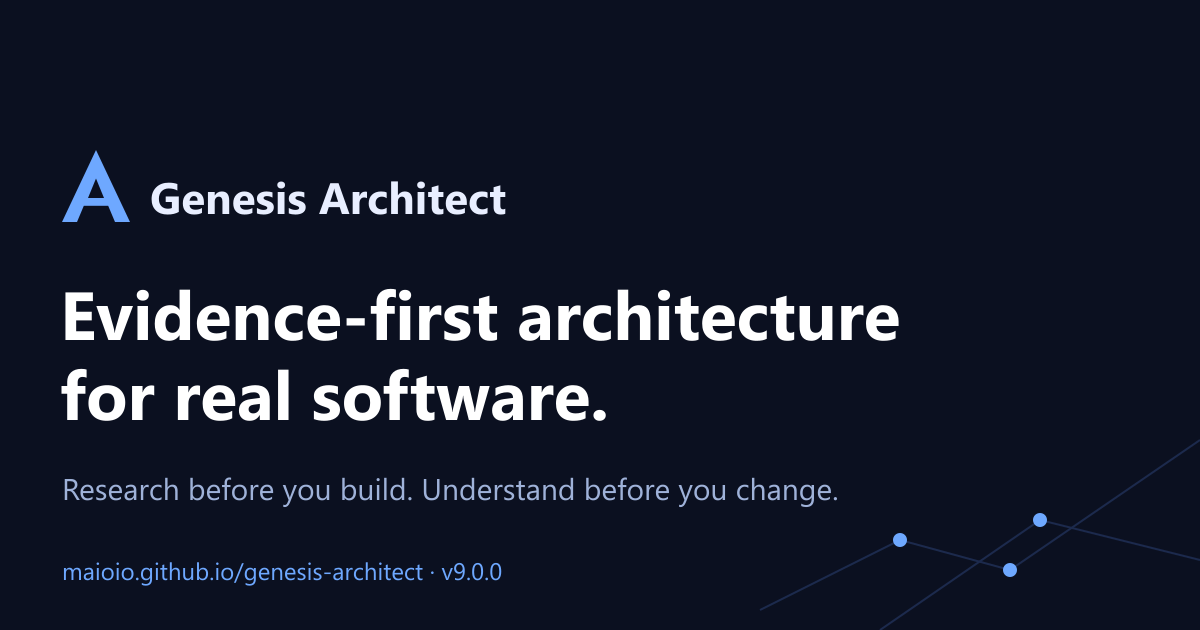
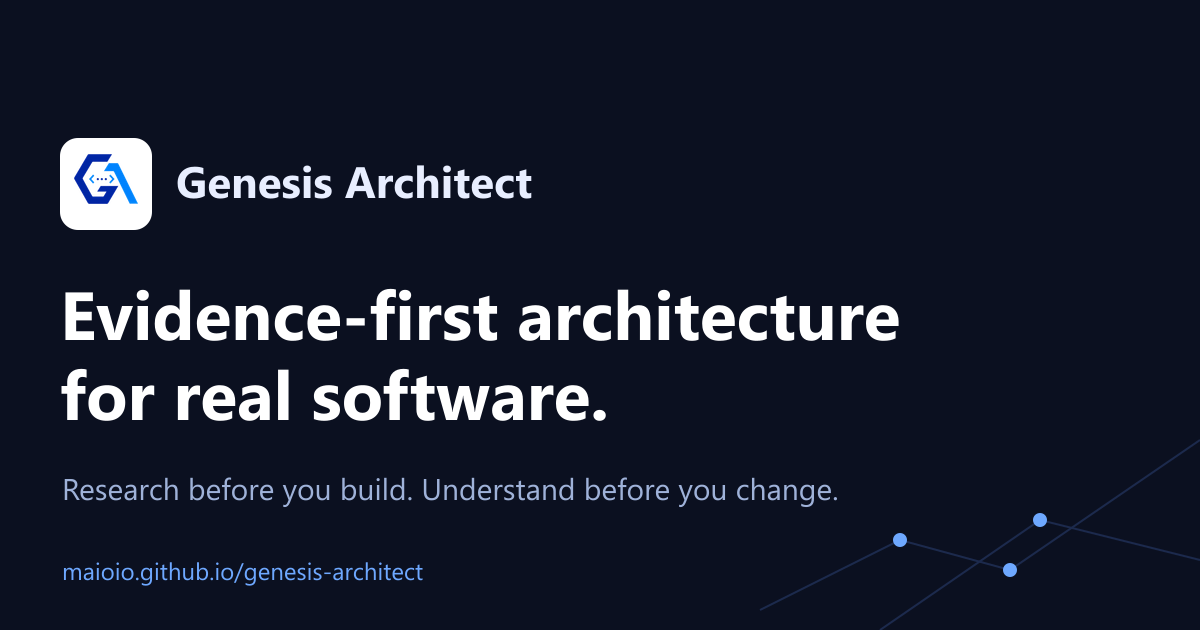
feat(site): add Genesis brand identity across public site
Use the official mark and lockup (derived from docs/symbol.png and
docs/logo.png) in the landing header, hero, Starlight header, favicon,
apple-touch-icon and social card. Remove the invented 'A' glyph favicon
and social-card mark. In dark mode the dark-blue artwork sits on a white
chip, no recolor. Social card no longer carries a version number.

Changed region(s): [[0.0308, 0.2111, 0.4625, 0.3921], [0.37, 0.8746, 0.4317, 0.9349]]

diff --git a/site/tests/site.spec.ts b/site/tests/site.spec.ts
@@ -96,7 +96,7 @@ test('sitemap and robots.txt are served and consistent', async ({ request }) => 
 });
 
 test('favicon and social card are served', async ({ request }) => {
-  for (const f of ['favicon.svg', 'social-card.png']) {
+  for (const f of ['favicon.ico', 'favicon-32.png', 'apple-touch-icon.png', 'social-card.png']) {
     expect((await request.get(BASE + f)).status()).toBe(200);
   }
 });

diff --git a/site/src/styles/theme.css b/site/src/styles/theme.css
@@ -12,3 +12,7 @@
   --sl-color-accent: #0a6a94;
   --sl-color-accent-high: #064560;
 }
+
+/* Brand mark: official artwork is dark blue, so it sits on a white chip in dark mode. */
+.site-title img { height: 1.5rem; width: auto; border-radius: 6px; }
+:root[data-theme='dark'] .site-title img { background: #fff; padding: 3px 5px; box-sizing: content-box; }
